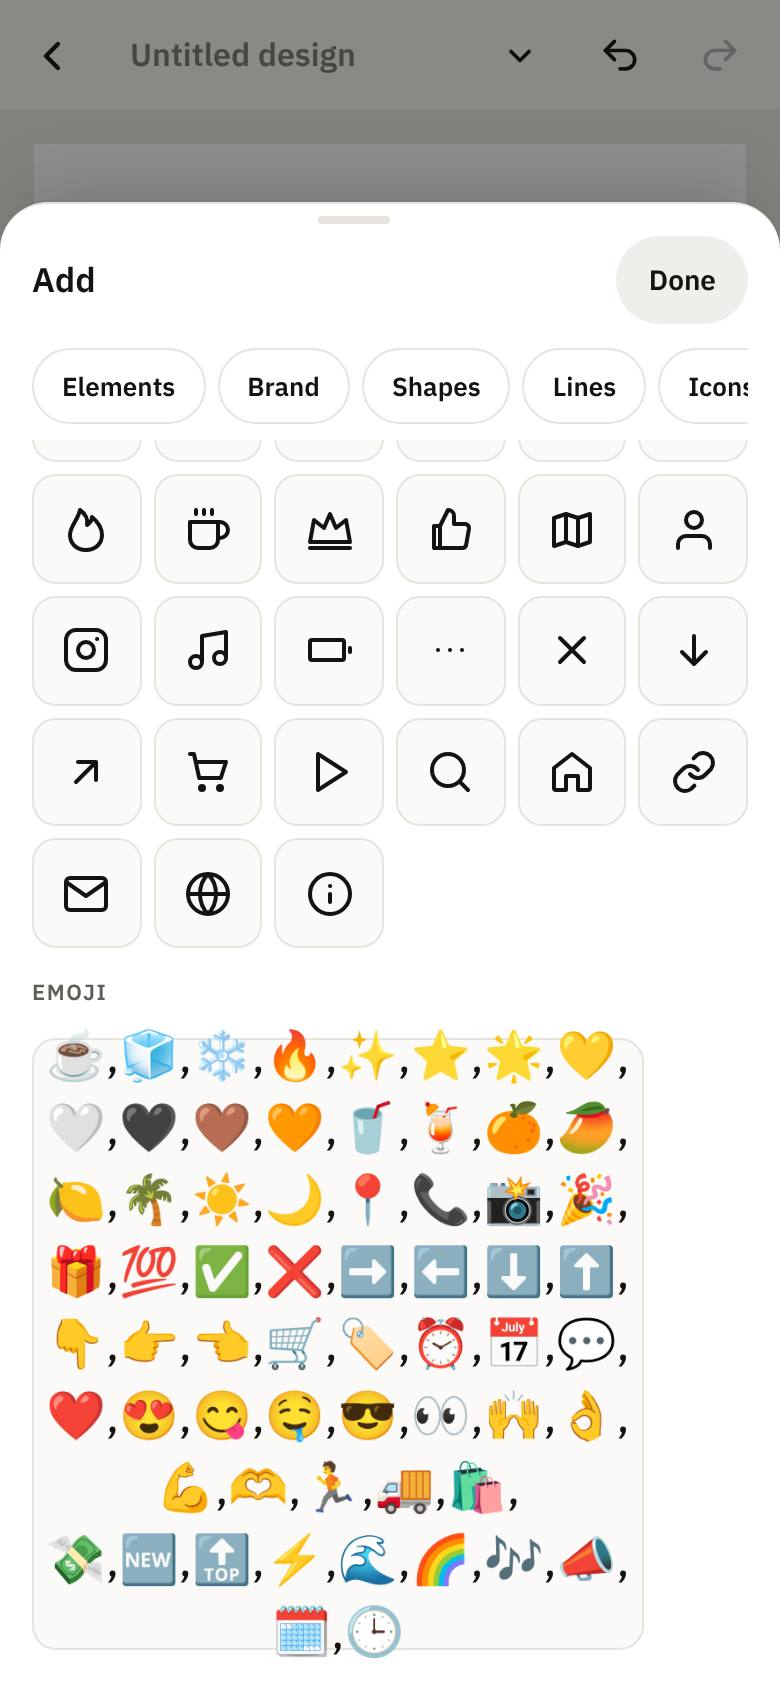
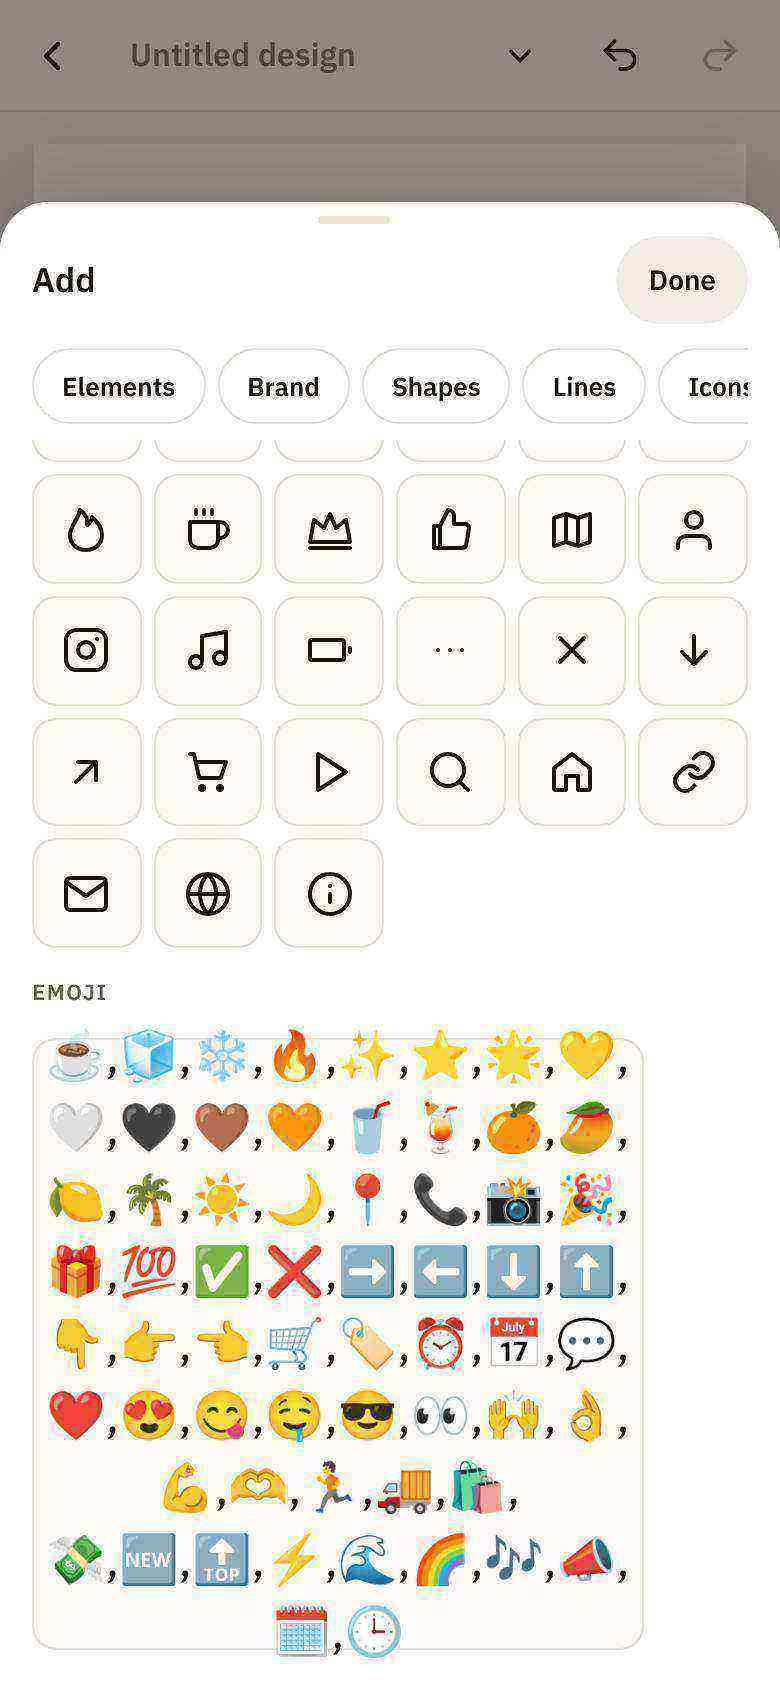
1.31.0: create-stickers suite, What's New after shots, pending notes
Claude-Session: https://claude.ai/code/session_01Y65H7ZP6r8rjjso4xhDTcp

diff --git a/studio-notes/pending/1.31.0.md b/studio-notes/pending/1.31.0.md
@@ -1,0 +1,65 @@
+# 1.31.0 pending notes (Mazoon session: stickers, emoji and text styles in Create)
+
+Branch `claude/v1.31-create-stickers` (from `ccr-1402b6e7-l5nkk1`). Backlog items done: **#26** (Create half; Board still open), **#33**, **#35** (Create half; Board still open).
+
+## What's New cards (changelog format)
+
+```
+## 1.31.0 · 30 Oct 2026
+
+### Stickers and emoji in Create
+type: feature
+Create → Add has two new groups after Icons: Stickers (the same arrows, sparkles, starburst, heart, seal, scribbles, speech bubble and tick as the tool pages) and Emoji (the 24 colourful emoji of the Highlight covers). Tap one and it lands in the middle of your page, sharp at any size. Recolour a sticker under Colour; an emoji takes one colour too, and Original brings its own colours back. Your phone's emoji are still there under Phone emoji, now one button each (they used to be squeezed into one big button).
+![before](assets/whatsnew/1.31.0-add-emoji-before.jpg)
+![after](assets/whatsnew/1.31.0-add-emoji-after.jpg)
+
+### Swap: an emoji on your highlight cover
+type: feature
+Tap the icon on a highlight cover (or any sticker or emoji) and the edit bar has Swap. Pick an emoji or a sticker and it takes the old one's place, size and turn. The sheet stays open so you can try a few, then Done. A highlight cover with an emoji: Templates → Highlight → tap the icon → Swap → one tap.
+![before](assets/whatsnew/1.31.0-highlight-before.jpg)
+![after](assets/whatsnew/1.31.0-highlight-after.jpg)
+
+### Text styles in Create
+type: feature
+The Font sheet now ends with Text styles: the same saved looks as the tool pages' text panel (on this phone, up to 8). Tap one to put its colour, font, pill and spacing on the selected words; Save this style adds the look you made; ⋯ uses a style on every text on the page or removes it. A style saved in Create shows up in Restock, Offer and the other tools, and the other way round.
+![before](assets/whatsnew/1.31.0-font-before.jpg)
+![after](assets/whatsnew/1.31.0-font-after.jpg)
+
+### One tap adds one thing
+type: fix
+In Create, opening Add (or another sheet) several times and then tapping an element could add it several times on top of each other. Now one tap always adds one.
+```
+
+## sw.js shell: new files
+- `tools/create-stickers.js`
+- `tests/` files are not shipped. `tools/highlight-emoji.js` and `assets/stickers.js` are already in the shell (Create now loads them on demand).
+
+## run.mjs MAP rows
+- Add `create-stickers` to the `tools/create` row: `[/tools\/create/,['create','create-search','tplfav','create-stickers']]`.
+- `assets/stickers.js` and `tools/highlight-emoji.js` rows: add `create-stickers` (Create reads `STUDIO_STICKERS` drawn entries and `HL_EMOJI`).
+- `tests/shot-create.mjs` is a What's New shot script (like `shot-stickers.mjs`): `--quick` picked it up as a "changed suite" and it ran harmlessly (0/0); exclude `shot-*` if run.mjs doesn't already.
+
+## README lines (Create section)
+- **Stickers and emoji:** Add → Stickers / Emoji: the tool pages' drawn stickers and the 24 Highlight emoji, as ordinary layers (move, size, turn, flip, recolour; an emoji's Colour has Original). Phone emoji stay below them.
+- **Swap:** select a sticker, an emoji or an icon (e.g. a highlight cover's icon) → Swap → pick another; same place, size and turn.
+- **Text styles:** Font sheet → Text styles, shared with the tool pages on this device.
+
+## Notes for skill / lessons / backlog
+- Skill Repo notes: *Create stickers (since 1.31.0):* `tools/create-stickers.js` (CR.stickersReady / makeSticker / swapSticker / traceSticker). A drawn sticker is traced from its canvas `draw()` into SVG path data and saved as one `Konva.Path` (kind `path` filled or `icon` stroked, attr `stickerId`); an emoji is a `kind:'group'` of filled Paths (attr `stickerId` `sticker:emoji-<id>`, attr `tint` when one-coloured). The saved format and `rebuild()` are untouched, so Board opens these designs too. Never rename a sticker or emoji id. The highlight layout takes `emoji:'<id>'` in a brand template entry.
+- Skill Repo notes: Create's `openSheet()` now swaps `#crSheetB` for a fresh element each time; delegate page-level listeners from `#crSheet` (the Layers list does), never from `#crSheetB`.
+- Lessons: the "one big emoji button" bug (`String(BD.EMOJI)` on an array) and the stacked sheet handlers were both visible only by tapping through; the before shot found the first. Take before shots early: they double as an audit.
+- Backlog: #26 and #35 now only need Board. New idea: brand template entries for emoji highlight covers (`layout:'highlight', emoji:'places'` etc.) in `create.templates` of `brand.js` (outside this session's scope; English labels only, no Arabic needed).
+- Text styles: Create adds an optional `wt` key (weight) only when the weight differs from the font's usual one; tool pages ignore it when pasting. Create stores `align` only when not centred, `lh` only when not 1.2.
+
+## Scoreboard row
+| 1.31.0 | Mazoon | Quality 5 (all suites green, shots both themes checked) | Speed 5 (#26 Create half, #33, #35 Create half, plus two fixes, one session) | Owner-reported: n/a (parallel round) | Taste pass | Better: check new tap areas in the Add sheet at 360px by eye too, not only by the suite. |
+
+## Tests run (BASE=http://127.0.0.1:8083/)
+create-stickers 56/0 (new), create 44/0, create-search 28/0, tplfav 63/0, stickers 72/0, emoji-stickers 23/0, smoke 17/0, taste 35/0, `run.mjs --quick` all green.
+
+## Merge risks
+- 1.33.0 changes when `highlight-emoji.js` loads. Create does not use tool-page script tags: `CR.stickersReady()` injects `highlight-emoji.js` then `../assets/stickers.js` only if `window.HL_EMOJI` / `window.STUDIO_STICKERS` are missing, and builds emoji from `HL_EMOJI` directly (drawn stickers from `STUDIO_STICKERS` entries without `emoji`). If 1.33 renames those globals or makes stickers.js stop defining `STUDIO_STICKERS` at load, `create-stickers.mjs` will catch it.
+- Only `tools/create*.js|css|html` and new test files changed; no `studio.js`, `sw.js` or brand changes.
+
+## Arabic wording to approve
+None. No new Arabic; new UI labels are English (Stickers, Emoji, Phone emoji, Swap, Text styles, Save this style, Original colours).
